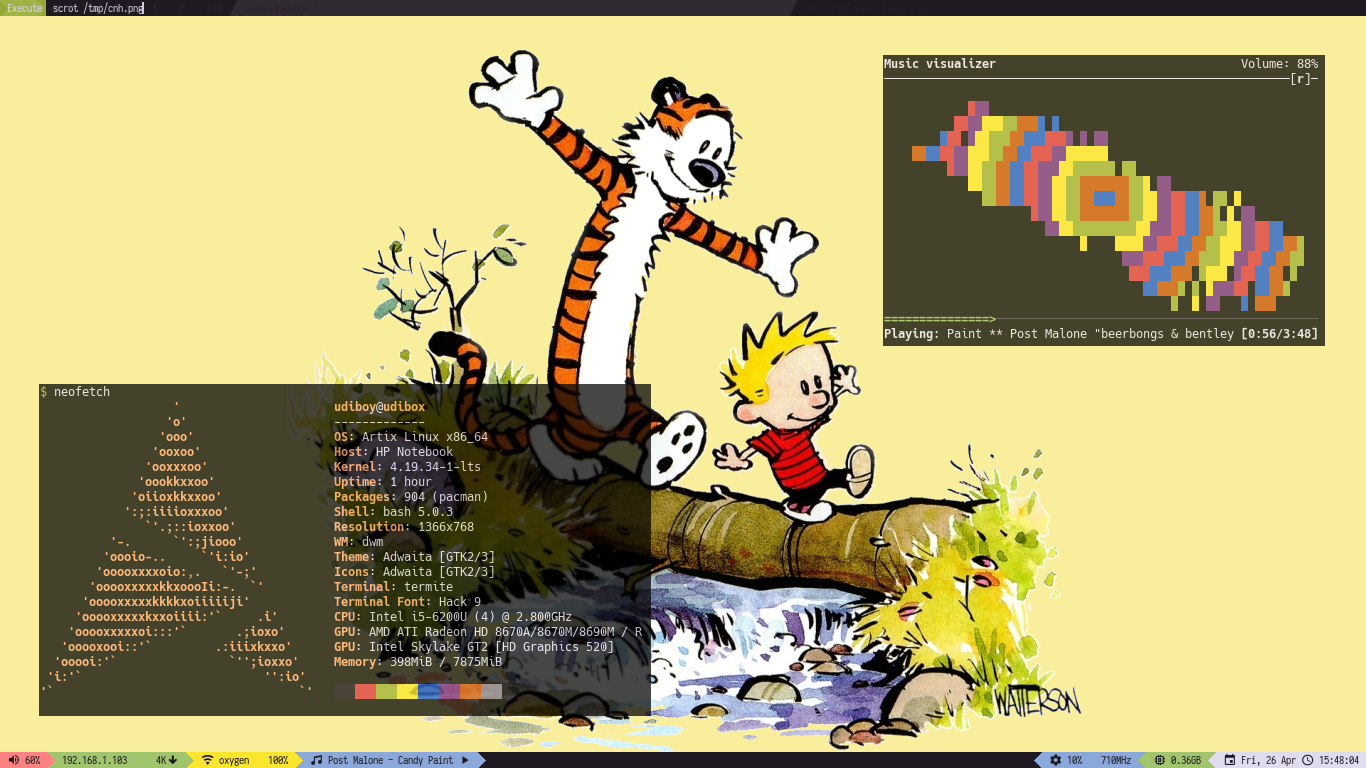
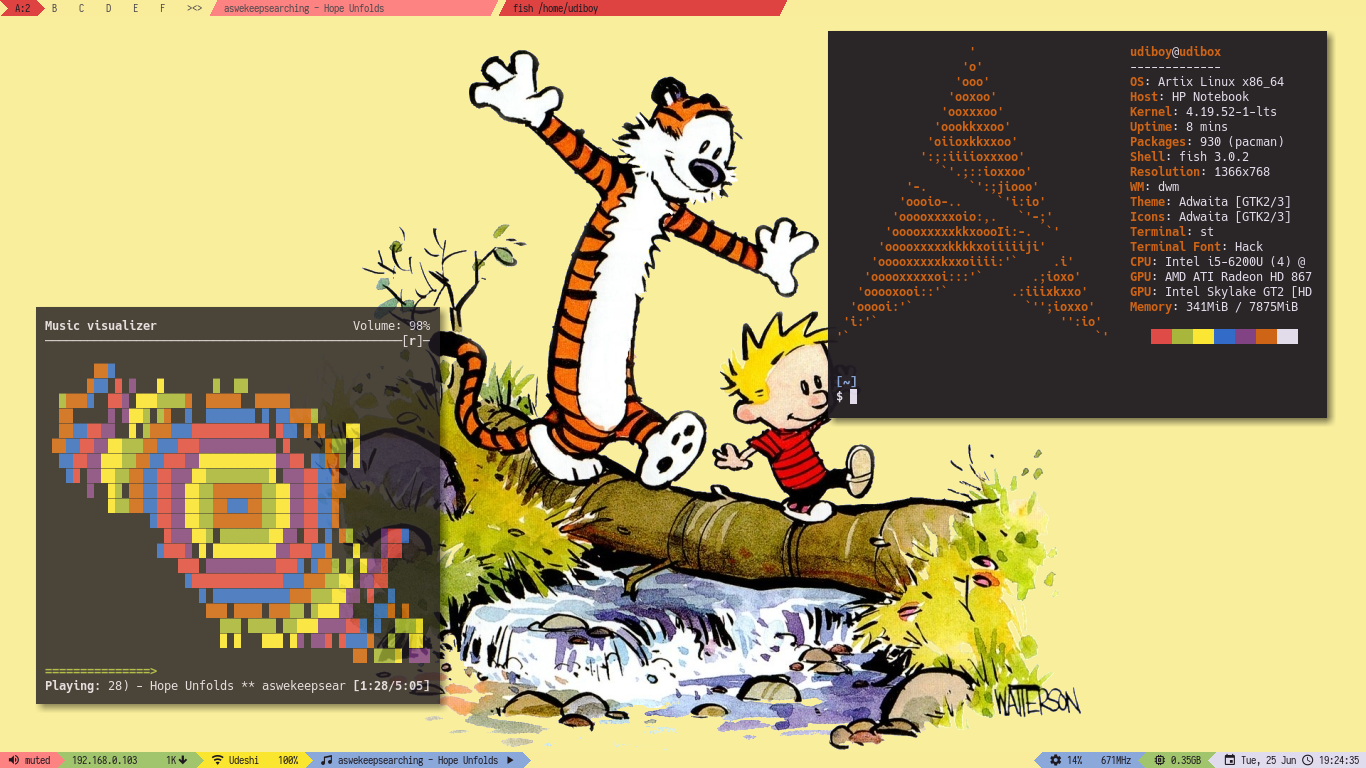
Compton shadow and alpha changes, change scrot

diff --git a/README.md b/README.md
@@ -2,13 +2,13 @@
 
 Collection of various dotfiles and configs, and tools to install and modify them
 
-![scrot](scrot.png "Screenshot")
+![scrot](scrots/cnh.png "Screenshot")
 
 WM is dwm, with custom [patch](https://gist.github.com/udiboy1209/c4a47c3bb1bbfa5498032dee34bc144a).
 
 ## Installation
 
-I have written two scripts `rclink` and `rcunlink` based on the functioning of 
+I have written two scripts `rclink` and `rcunlink` based on the functioning of
 [GNU stow](https://www.gnu.org/software/stow/). They take a list of mappings from local dir
 to home dir, and generate symlinks pretty much like how `stow` does.
 
@@ -41,6 +41,6 @@ It will scan current directory and run `quik` all `*.template` files, generating
 $ tools/steamrice -t themes/get-fresh.yaml
 ```
 
-If you have used `rclink`, then the changes will be seen directly. 
+If you have used `rclink`, then the changes will be seen directly.
 
 *Note: be sure to add file and not its template to linkset*
